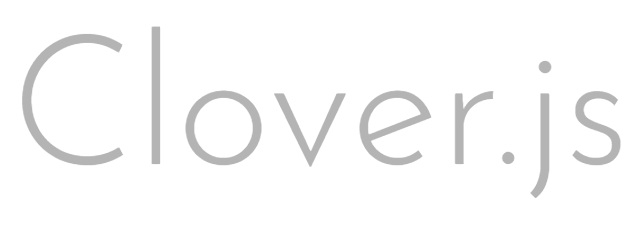
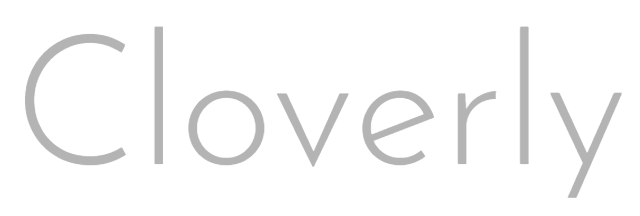
first commit

diff --git a/index.js b/index.js
@@ -1,5 +1,5 @@
 /**
- * Clover.js
+ * Cloverly
  * Copyright(c) 2022 - Yasu Yumiko
  * MIT Licensed
  */

diff --git a/lib/clover.js b/lib/clover.js
@@ -1,5 +1,5 @@
 /**
- * Clover.js
+ * Cloverly
  * Copyright(c) 2022 - Yasu Yumiko
  * MIT Licensed
  */

diff --git a/README.md b/README.md
@@ -1,27 +1,27 @@
 <div align="center">
   <br />
   <p>
-    <a href="https://www.npmjs.com/package/aplos"><img src="./docs/clover.js.png" width="546" alt="clover.js" /></a>
+    <a href="https://www.npmjs.com/package/aplos"><img src="./docs/cloverly.png" width="546" alt="cloverly" /></a>
   </p>
   <br />
   <p>
-    <a href="https://www.npmjs.com/package/clover.js"><img src="https://img.shields.io/npm/v/clover.js.svg" alt="npm version" /></a>
-    <a href="https://www.npmjs.com/package/clover.js"><img src="https://img.shields.io/npm/dm/clover.js.svg" alt="npm downloads" /></a>
+    <a href="https://www.npmjs.com/package/cloverly"><img src="https://img.shields.io/npm/v/cloverly.svg" alt="npm version" /></a>
+    <a href="https://www.npmjs.com/package/cloverly"><img src="https://img.shields.io/npm/dm/cloverly.svg" alt="npm downloads" /></a>
   </p>
 </div>
 
-[![npm](https://nodei.co/npm/clover.js.png)](https://www.npmjs.com/package/clover.js)
+[![npm](https://nodei.co/npm/cloverly.png)](https://www.npmjs.com/package/cloverly)
 
 ## Sobre
 
-**Clover.js** es un paquete de [Node.js](https://nodejs.org) creado para el uso de funciones de JavaScript sencillas pero muy utiles para el desarrollo.
+**Cloverly** es un paquete de [Node.js](https://nodejs.org) creado para el uso de funciones de JavaScript sencillas pero muy utiles para el desarrollo.
 <br>
 <br>
 
 ## Instalación
 
 ```sh-session
-npm install clover.js
+npm install cloverly
 ```
 
 <br>
@@ -33,7 +33,7 @@ npm install clover.js
 - El numero en los paréntesis es NECESARIO, define la cantidad de digitos MAXIMOS que tendra el id (La **v1** solo retorna numeros) y si no se define un valor, por defecto tendra **18**
 
 ```js
-const { v1 } = require("clover.js").Id;
+const { v1 } = require("cloverly").Id;
 console.log(v1(9));
 /**
  * Return:
@@ -46,7 +46,7 @@ console.log(v1(9));
 - Lo mismo que la **v1** solo que este incluye letras
 
 ```js
-const { v1 } = require("clover.js").Id;
+const { v1 } = require("cloverly").Id;
 console.log(v1(9));
 /**
  * Return:
@@ -59,7 +59,7 @@ console.log(v1(9));
 - Como dice, convierte **bytes** a **_KB, MB, GB, TB, etc_**
 
 ```js
-const { Size } = require("clover.js");
+const { Size } = require("cloverly");
 console.log(Size(23925278));
 /**
  * Return:
@@ -70,7 +70,7 @@ console.log(Size(23925278));
 - Tambien funciona con variables:
 
 ```js
-const { Size } = require("clover.js");
+const { Size } = require("cloverly");
 let bytes = 45789848;
 console.log(Size(bytes));
 /**
@@ -84,7 +84,7 @@ console.log(Size(bytes));
 - Convierte los datos de fecha en Hora (PM/AM)
 
 ```js
-const format = require("clover.js").Format.v1;
+const format = require("cloverly").Format.v1;
 console.log("Hora:", format(new Date()));
 /**
  * Return:
@@ -97,7 +97,7 @@ console.log("Hora:", format(new Date()));
 - Convierte los datos de fecha en datos locales (Dia, Mes, Año)
 
 ```js
-const format = require("clover.js").Format.v2;
+const format = require("cloverly").Format.v2;
 console.log("Fecha:", format(new Date()));
 /**
  * Return:
@@ -111,7 +111,7 @@ console.log("Fecha:", format(new Date()));
 - Puedes especificar la porción y el total
 
 ```js
-const percent = require("clover.js").Percent;
+const percent = require("cloverly").Percent;
 /**
  * Ejemplo de uso:
  * percent(portion, total);
@@ -124,10 +124,13 @@ console.log(percent(15670, 100000));
  */
 ```
 
+## License
+MIT © [Yasu Yumiko](https://yumiko0828.ml)
+
 ## Enlaces
 
-- [GitHub](https://github.com/Yumiko0828/Clover.js)
-- [npm](https://www.npmjs.com/package/clover.js)
+- [GitHub](https://github.com/Yumiko0828/Cloverly)
+- [npm](https://www.npmjs.com/package/cloverly)
 
 ## This is all :)
 
